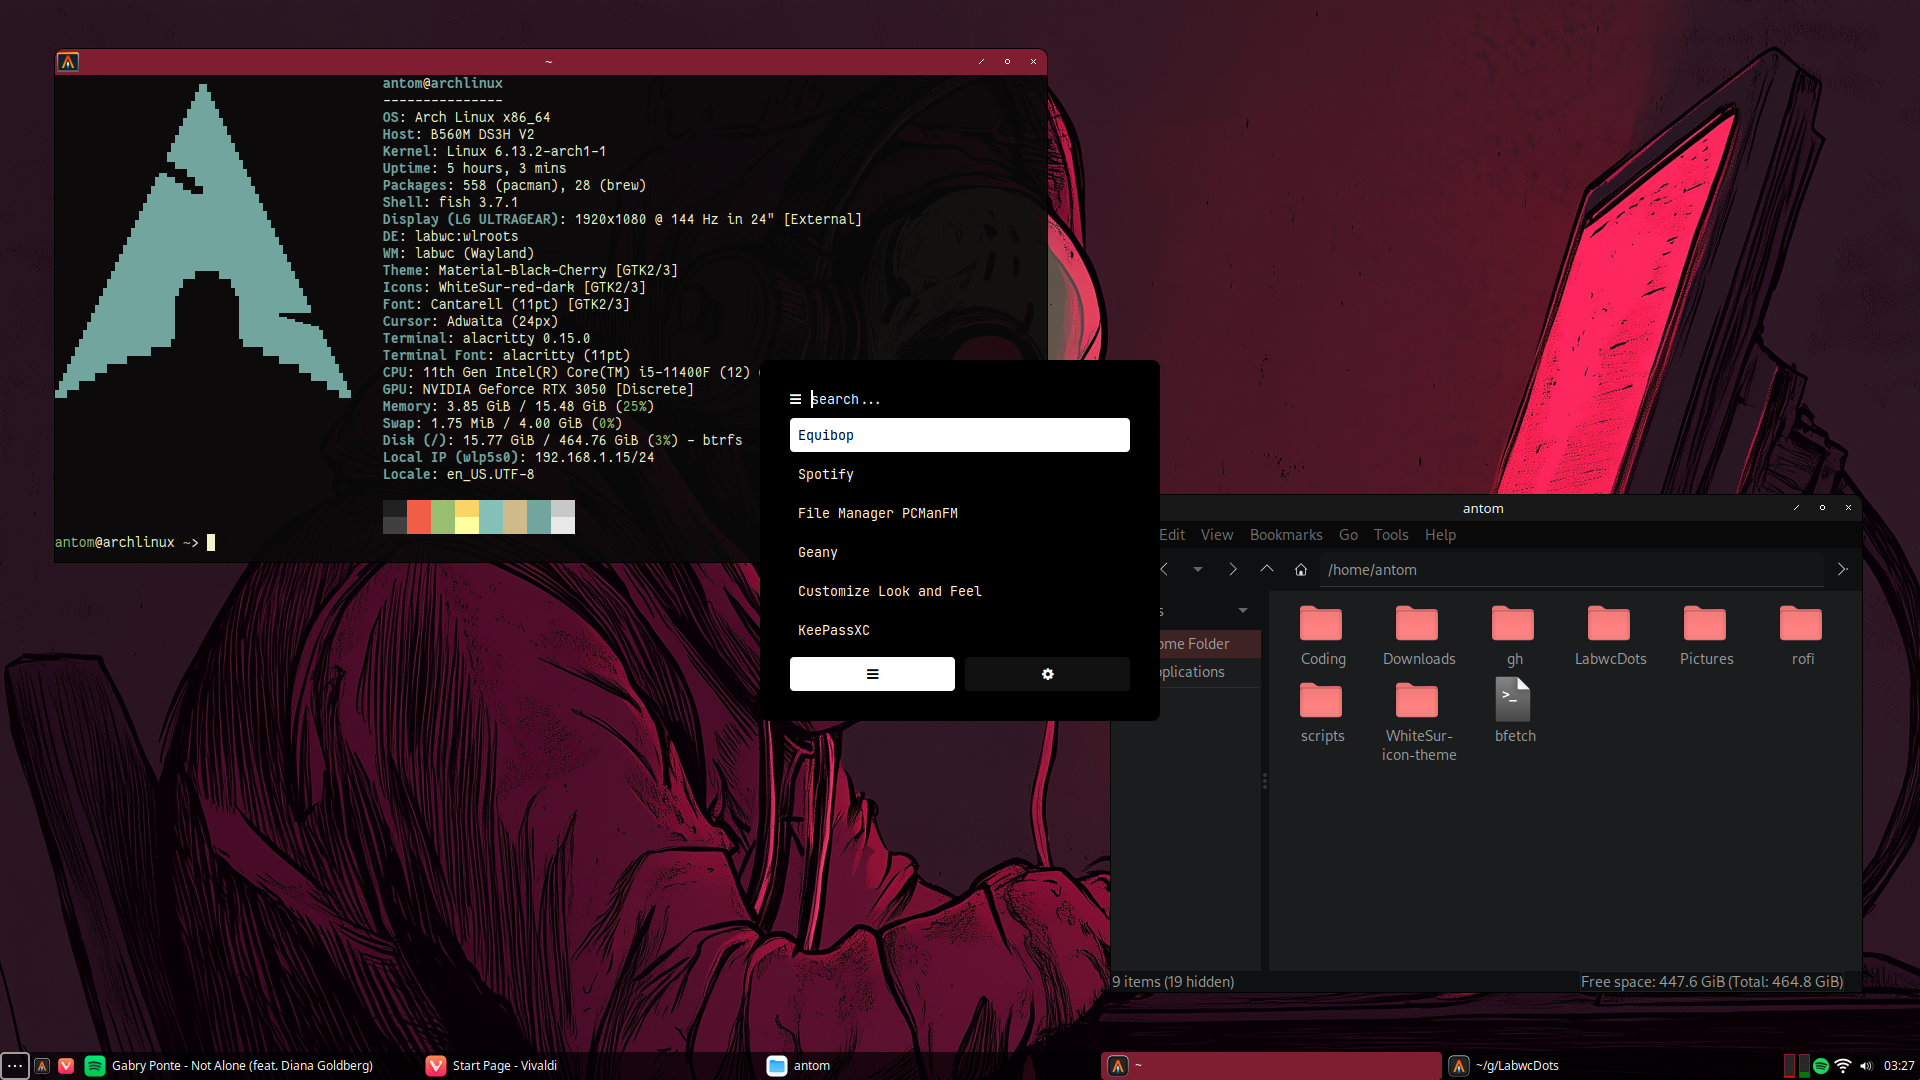
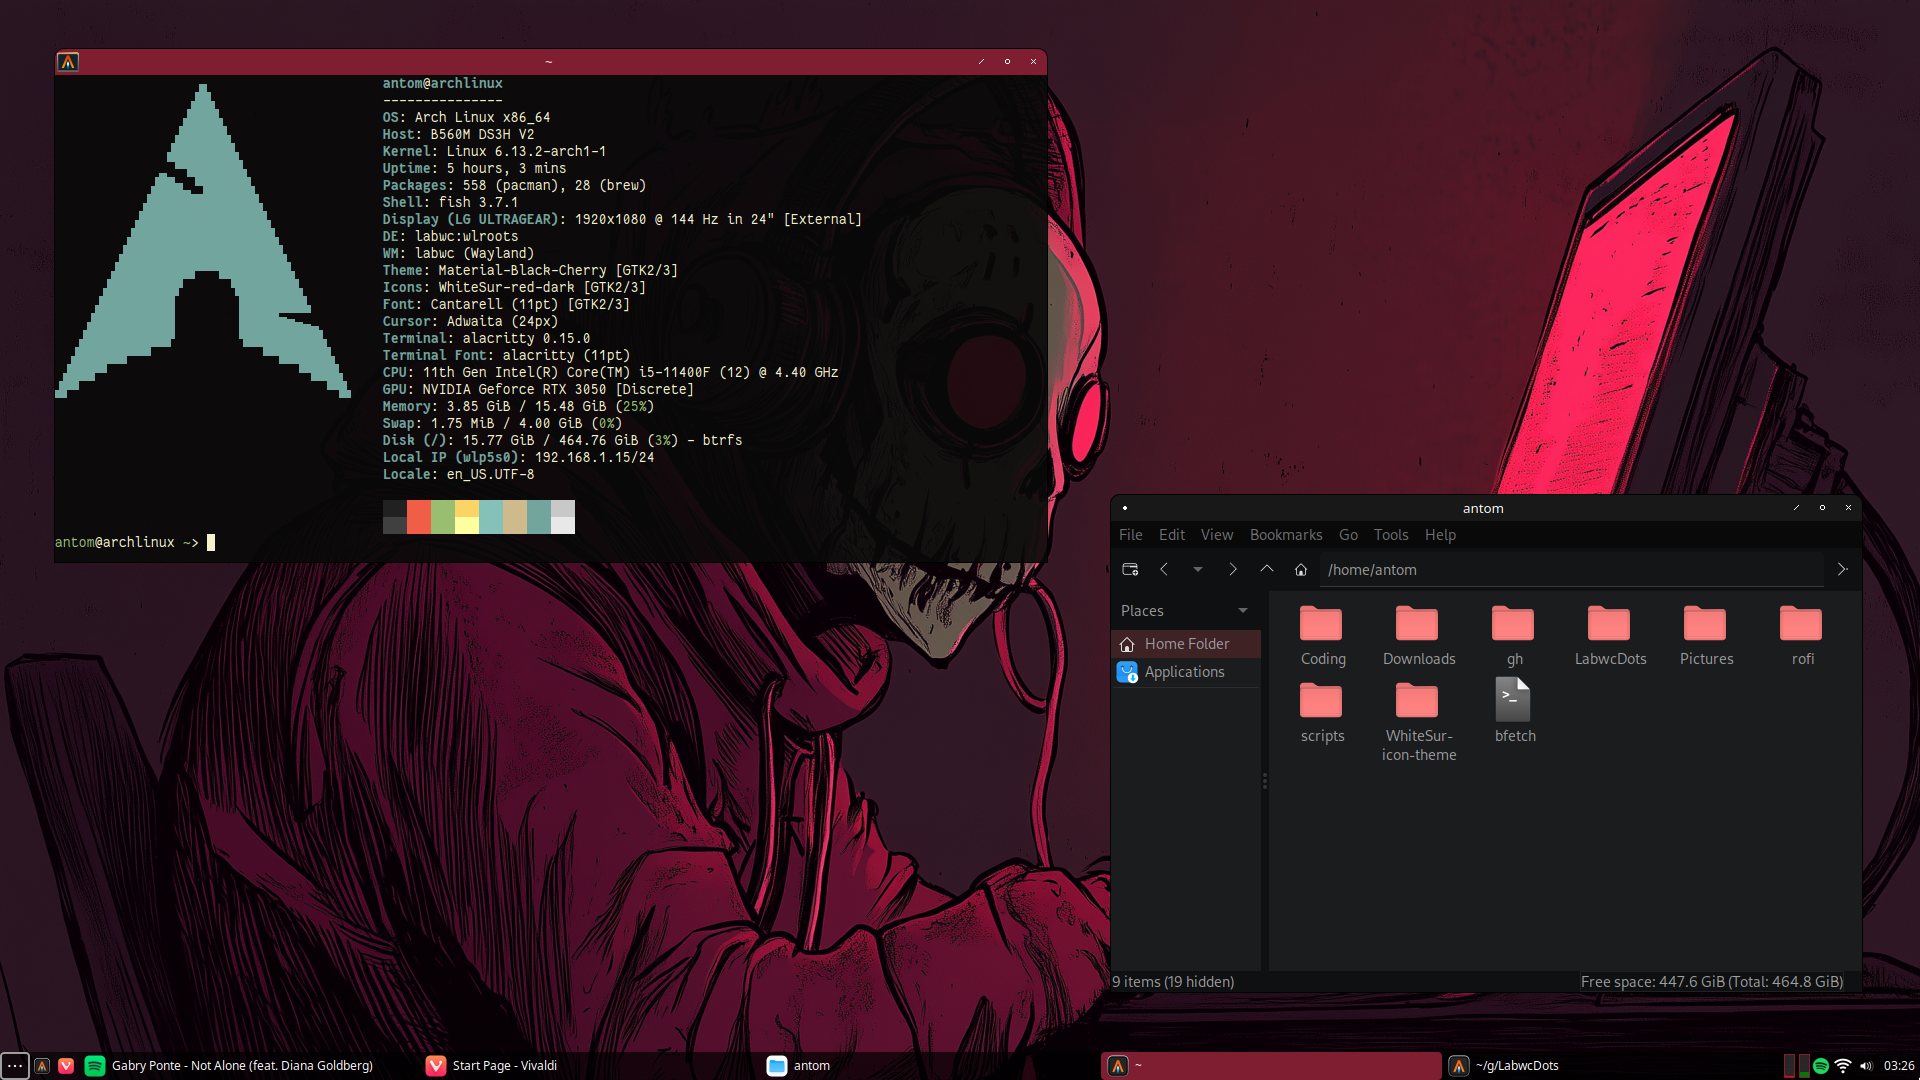
Powermenu and Rofi added

Changed region(s): [[0.375, 0.3361, 0.625, 0.6722], [0.4375, 0.4583, 0.5, 0.4889]]

diff --git a/README.md b/README.md
@@ -2,3 +2,5 @@
 my labwc dotfiles
 
 ![Screenshot](https://github.com/antomfdez/LabwcDots/blob/main/assets/cherry.png)
+![Screenshot](https://github.com/antomfdez/LabwcDots/blob/main/assets/powermenu.png)
+![Screenshot](https://github.com/antomfdez/LabwcDots/blob/main/assets/rofi.png)
